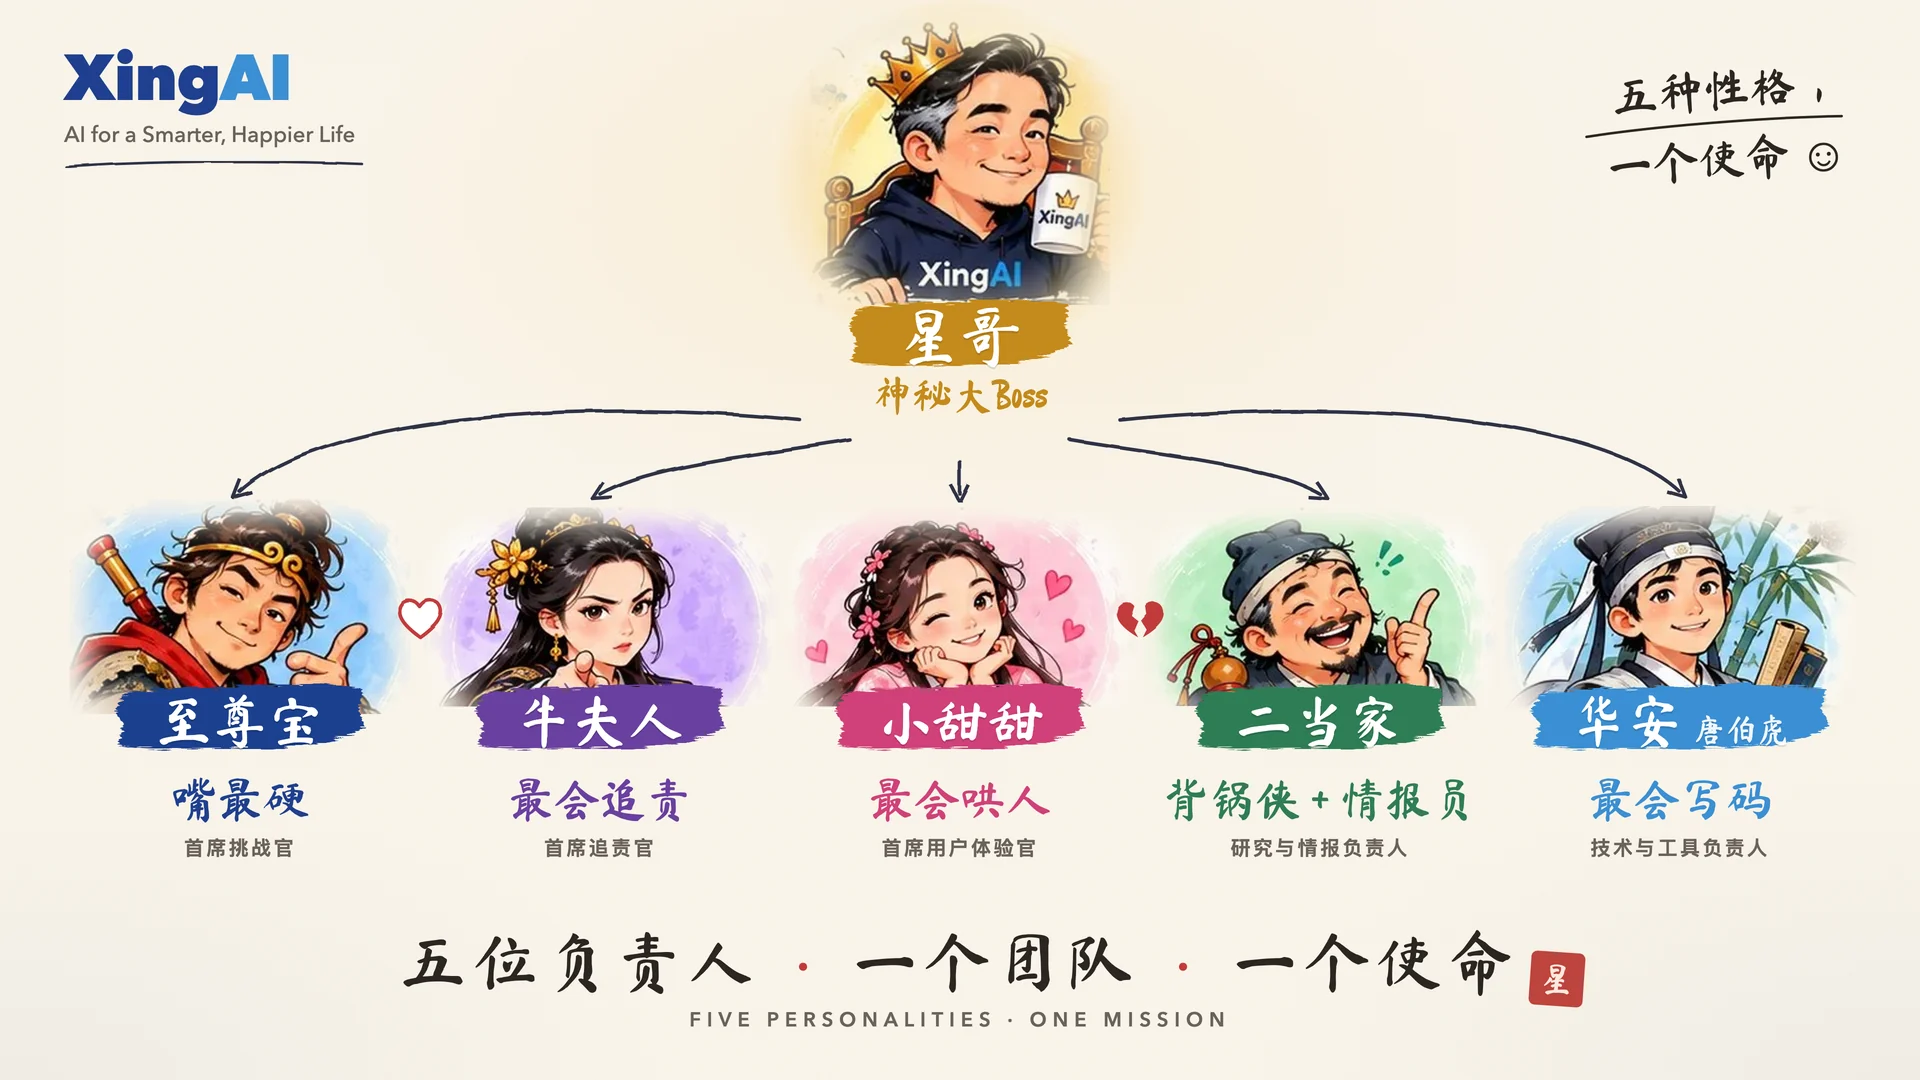
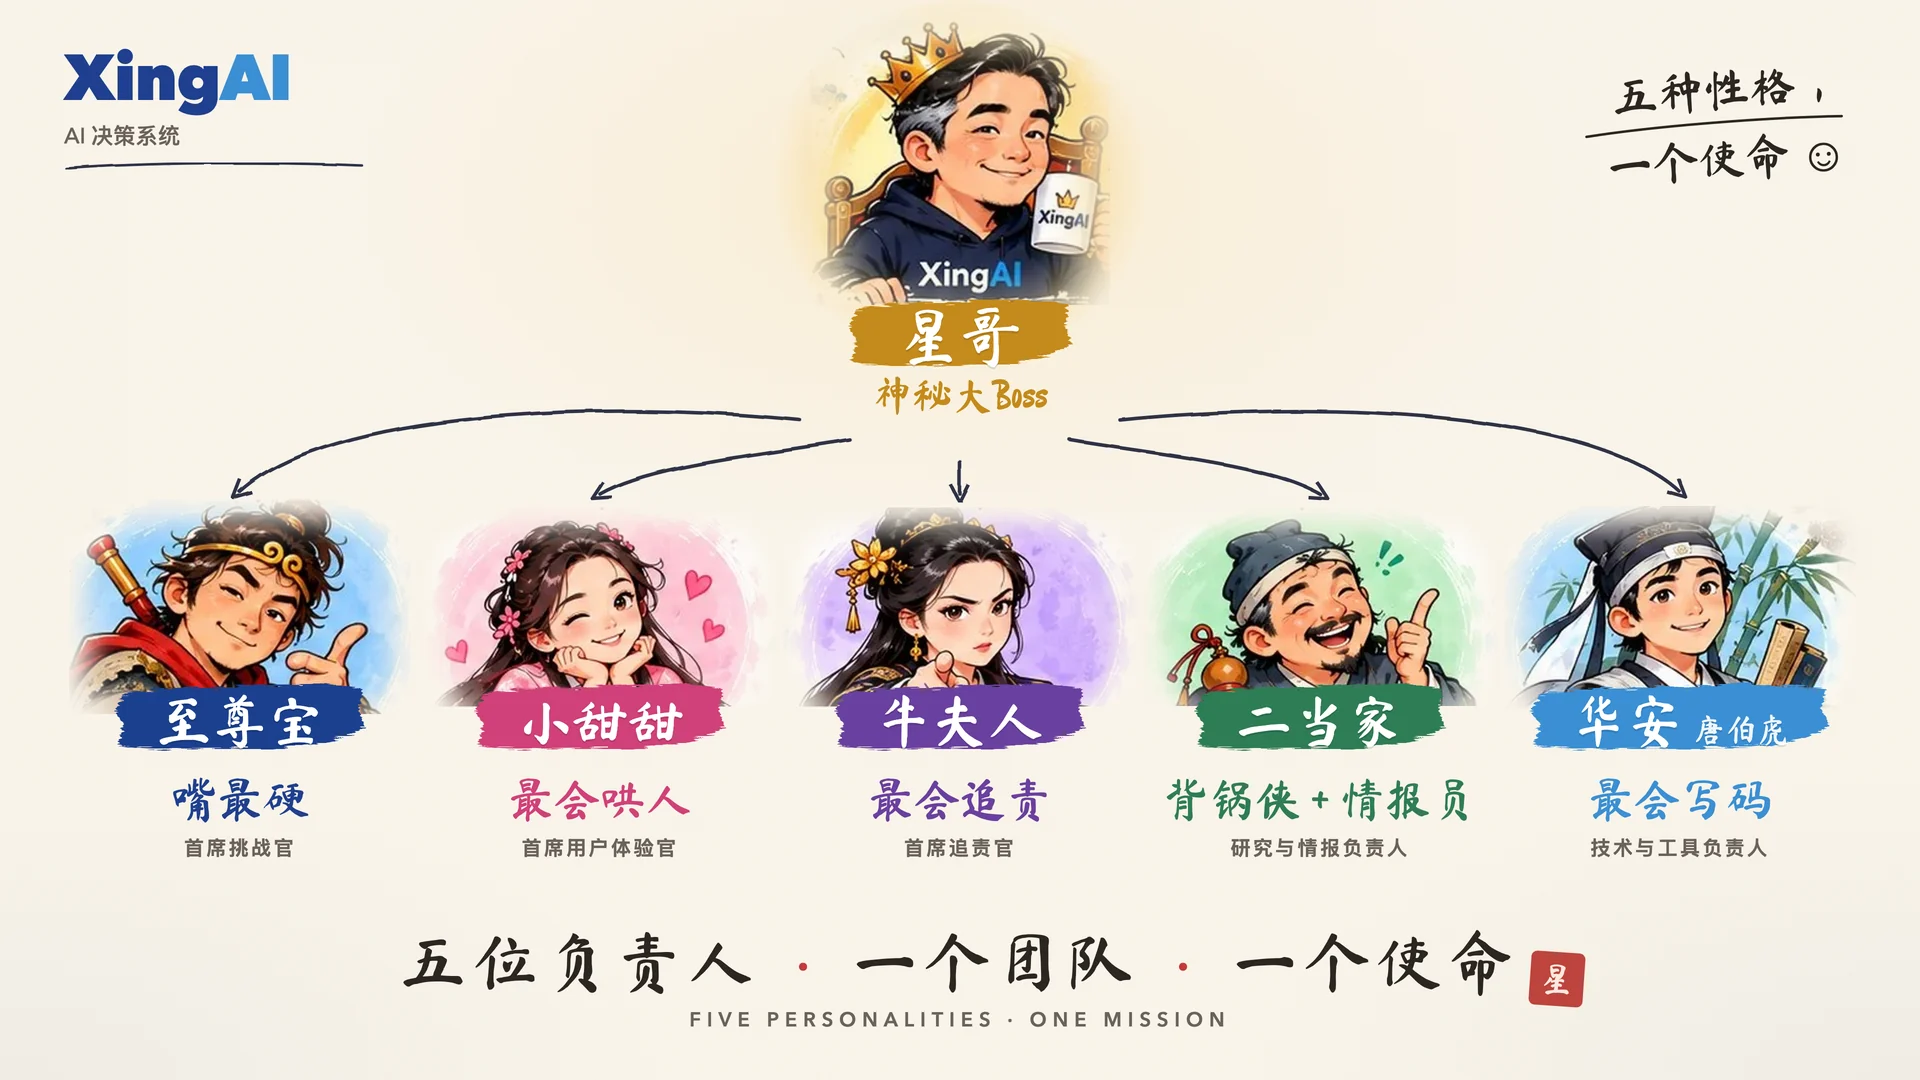
feat: about team poster follows /team order and site tagline
Leaders now read Joker, Sweetie, Lady Bull, Second Master, Hua An (castLeaderOrder),
the brand line is the site tagline (AI Decision Systems / AI 决策系统 /
AI 의사결정 시스템), and the heart symbols are dropped since those pairs are no
longer side by side. Alt text follows the new order.

Changed region(s): [[0.1875, 0.4583, 0.625, 0.7944], [0.0312, 0.0917, 0.1875, 0.1528]]

diff --git a/app/i18n/translations.ts b/app/i18n/translations.ts
@@ -151,7 +151,7 @@ const translations = {
     aboutBuildingText: "Experiments, refinements, and releases\u2014we share the process on GitHub, LinkedIn, and X. We favor shipping and iterating over perfecting in silence.",
     aboutStoryLink: "How XingAI turns ideas into products",
     aboutTeamPosterAlt:
-      "XingAI team poster: Xing above five leaders with their nicknames \u2014 Joker (sharpest tongue), Lady Bull (best at chasing blame), Sweetie (best at charming), Second Master (scapegoat + intel) and Hua An (code brush).",
+      "XingAI team poster: Xing above five leaders with their nicknames \u2014 Joker (sharpest tongue), Sweetie (best at charming), Lady Bull (best at chasing blame), Second Master (scapegoat + intel) and Hua An (code brush).",
 
     // Story / ecosystem
     homeLoopHeading: "How XingAI works",
@@ -539,7 +539,7 @@ const translations = {
     aboutBuildingText: "\u5b9e\u9a8c\u3001\u4f18\u5316\u548c\u53d1\u5e03\u2014\u2014\u6211\u4eec\u5728 GitHub\u3001LinkedIn \u548c X \u4e0a\u5206\u4eab\u8fc7\u7a0b\u3002\u6211\u4eec\u504f\u597d\u53d1\u5e03\u548c\u8fed\u4ee3\uff0c\u800c\u975e\u65e0\u58f0\u5b8c\u5584\u3002",
     aboutStoryLink: "XingAI 如何把想法变成产品",
     aboutTeamPosterAlt:
-      "XingAI 团队海报：星哥（神秘大Boss）在上，下面是五位负责人——至尊宝（嘴最硬）、牛夫人（最会追责）、小甜甜（最会哄人）、二当家（背锅侠 + 情报员）和华安（最会写码）。",
+      "XingAI 团队海报：星哥（神秘大Boss）在上，下面是五位负责人——至尊宝（嘴最硬）、小甜甜（最会哄人）、牛夫人（最会追责）、二当家（背锅侠 + 情报员）和华安（最会写码）。",
 
     homeLoopHeading: "XingAI 如何运转",
     homeLoopLead: "一条脊梁把想法变成产品。在故事页点开产品，可看 Who / What / Where / When / Why。",
@@ -917,7 +917,7 @@ const translations = {
     aboutBuildingText: "\uc2e4\ud5d8, \uac1c\uc120, \ubc30\ud3ec\u2014GitHub, LinkedIn, X\uc5d0\uc11c \uacfc\uc815\uc744 \uacf5\uc720\ud569\ub2c8\ub2e4. \uc870\uc6a9\ud788 \uc644\ubcbd\ud558\uac8c \ub9cc\ub4dc\ub294 \uac83\ubcf4\ub2e4 \ubc30\ud3ec\ud558\uace0 \ubc18\ubcf5\ud558\ub294 \uac83\uc744 \uc120\ud638\ud569\ub2c8\ub2e4.",
     aboutStoryLink: "XingAI가 아이디어를 제품으로 만드는 방식",
     aboutTeamPosterAlt:
-      "XingAI 팀 포스터: 싱게 아래 다섯 리더와 별명 \u2014 Joker(입이 제일 세다), Lady Bull(추궁 달인), Sweetie(달래기 달인), Second Master(총알받이 + 정보원), Hua An(코드 붓).",
+      "XingAI 팀 포스터: 싱게 아래 다섯 리더와 별명 \u2014 Joker(입이 제일 세다), Sweetie(달래기 달인), Lady Bull(추궁 달인), Second Master(총알받이 + 정보원), Hua An(코드 붓).",
 
     homeLoopHeading: "XingAI의 작동 방식",
     homeLoopLead: "하나의 척추로 아이디어가 제품이 됩니다. 스토리에서 제품을 열면 Who / What / Where / When / Why를 볼 수 있습니다.",

diff --git a/README.md b/README.md
@@ -8,7 +8,7 @@
 
 ### Current version notes
 
-`2026.10.05a` `/about` shows the team poster in each locale (`team-persona-poster-{en,zh,ko}.webp`): Xing above the five leaders with their nicknames, matching `/team` copy; links to `/team`.
+`2026.10.05a` `/about` shows the team poster in each locale (`team-persona-poster-{en,zh,ko}.webp`): Xing above the five leaders in `/team` order with their nicknames, tagline “AI Decision Systems”, matching `/team` copy; links to `/team`.
 
 `2026.10.04j` `/team` HTML cast: Xing (星哥) above five centered leaders with nicknames; decision flow is an avatar timeline; Character Bible poster stays for download/share.
 
